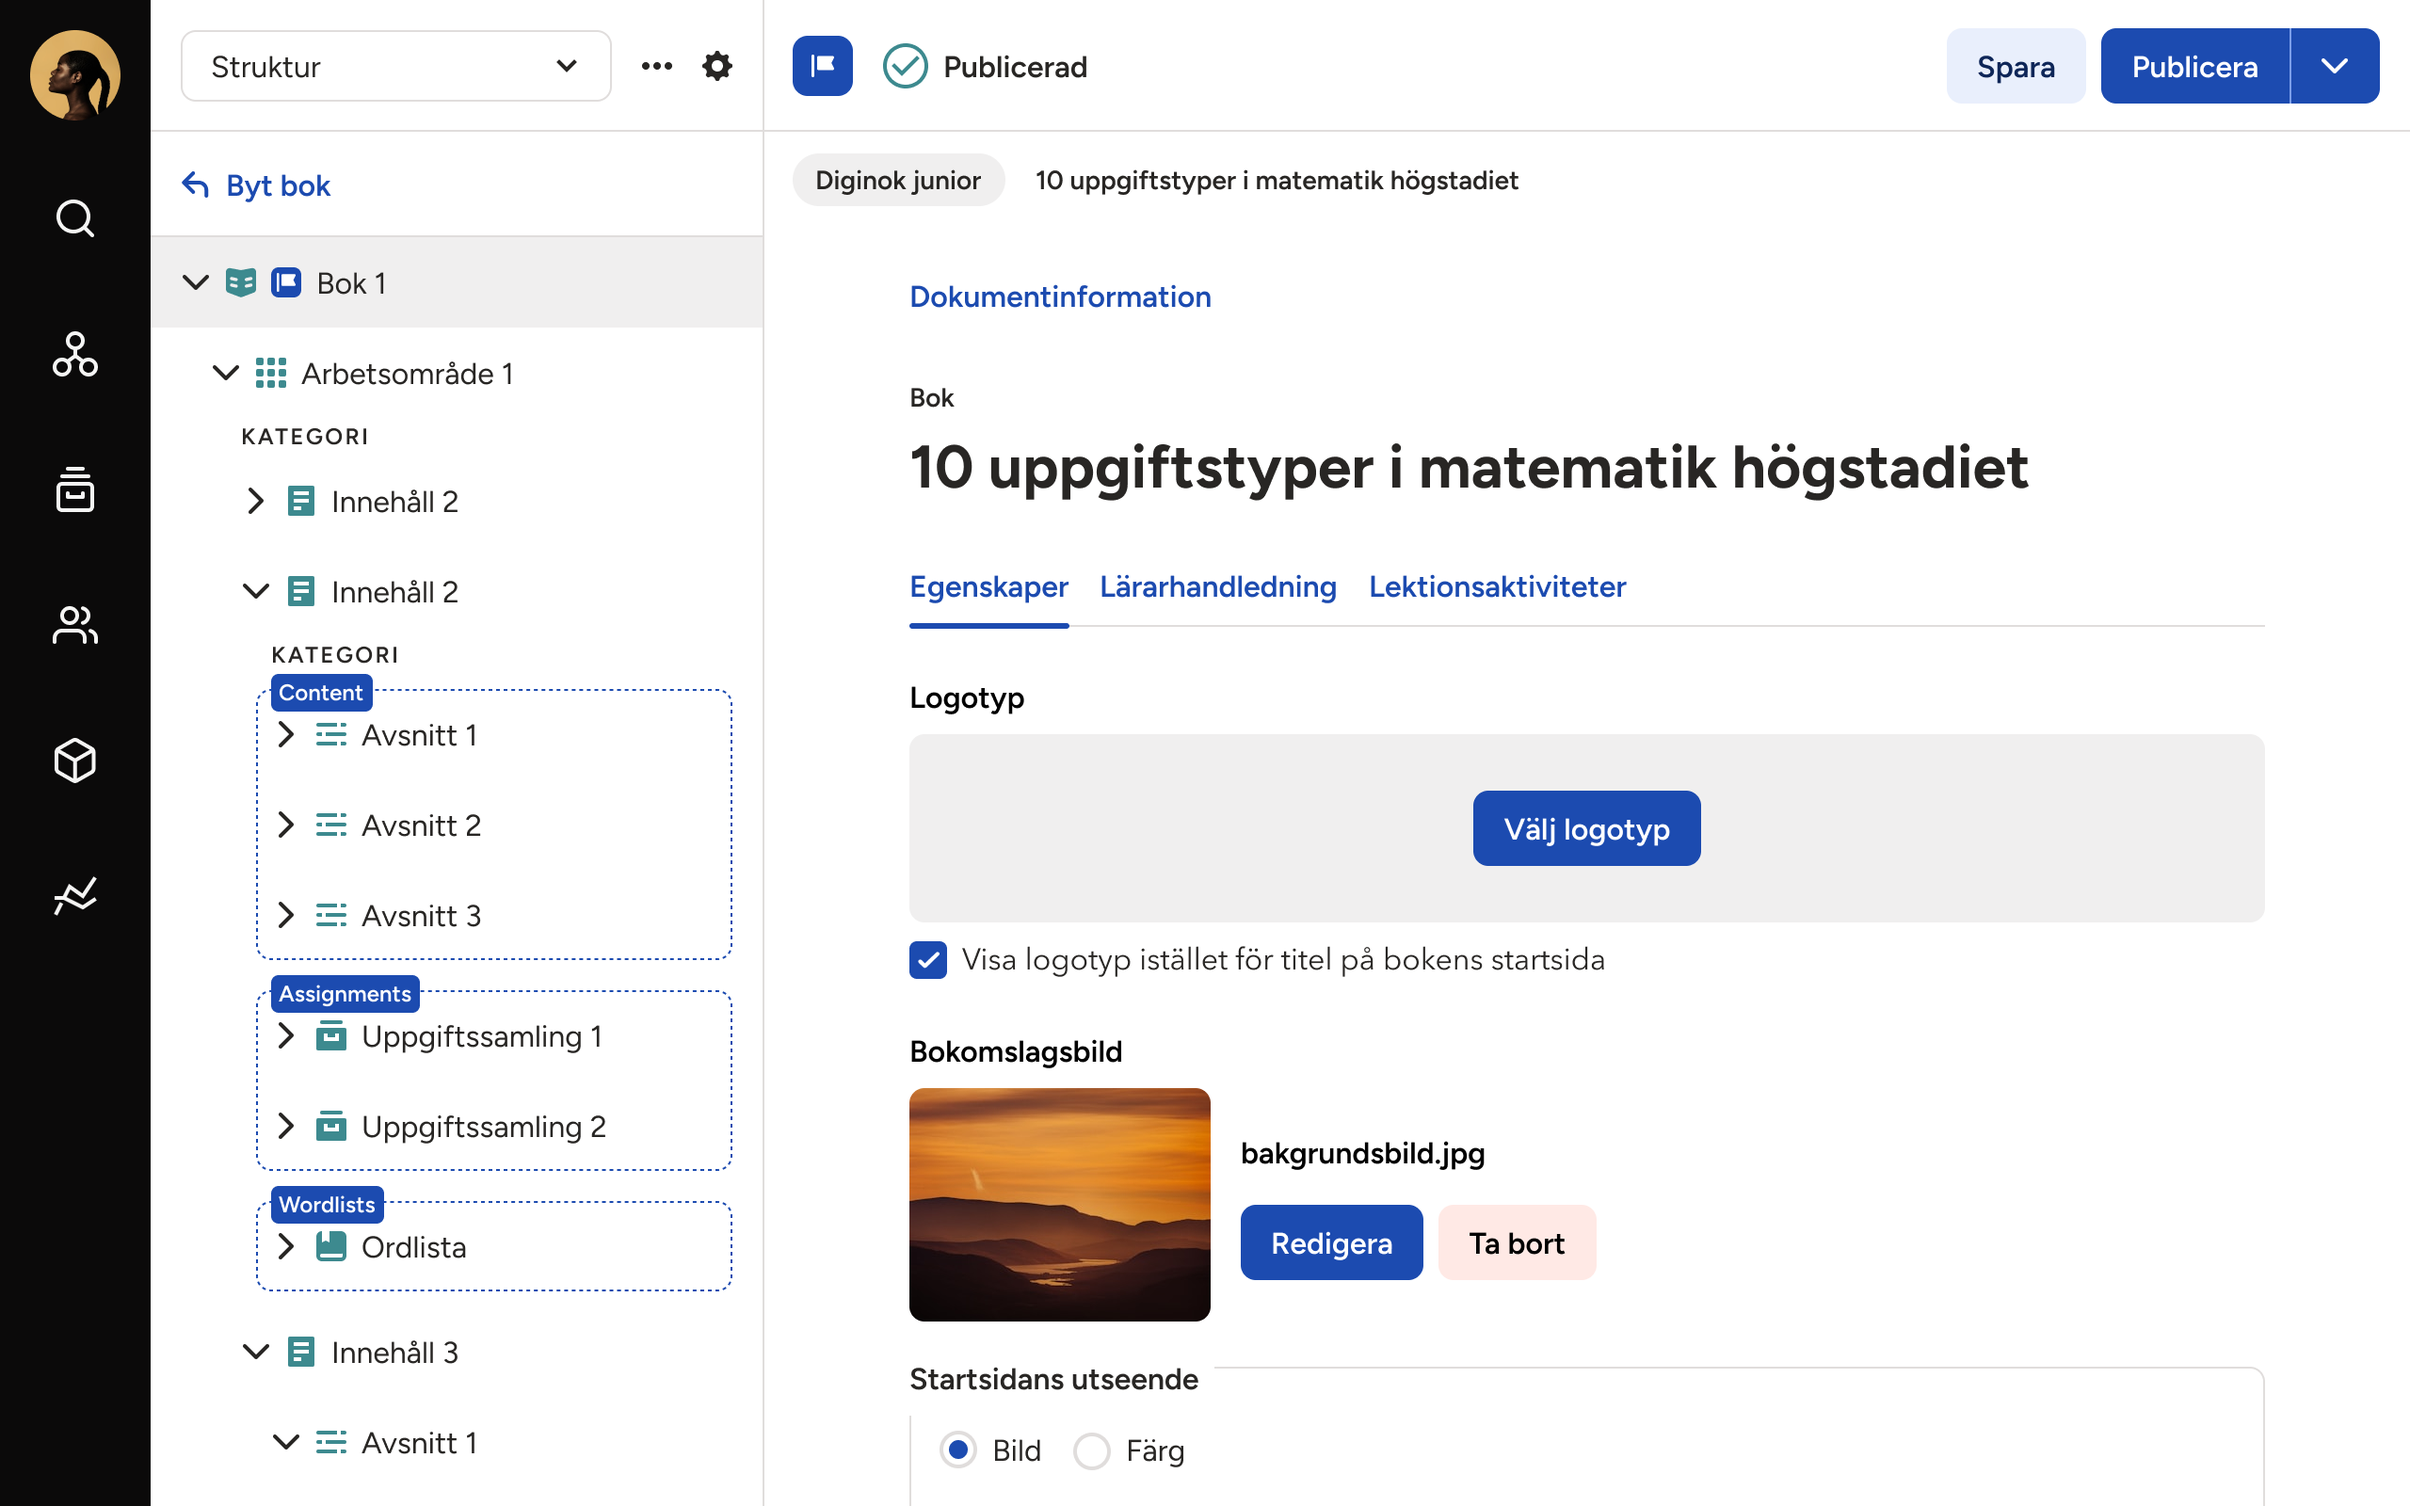
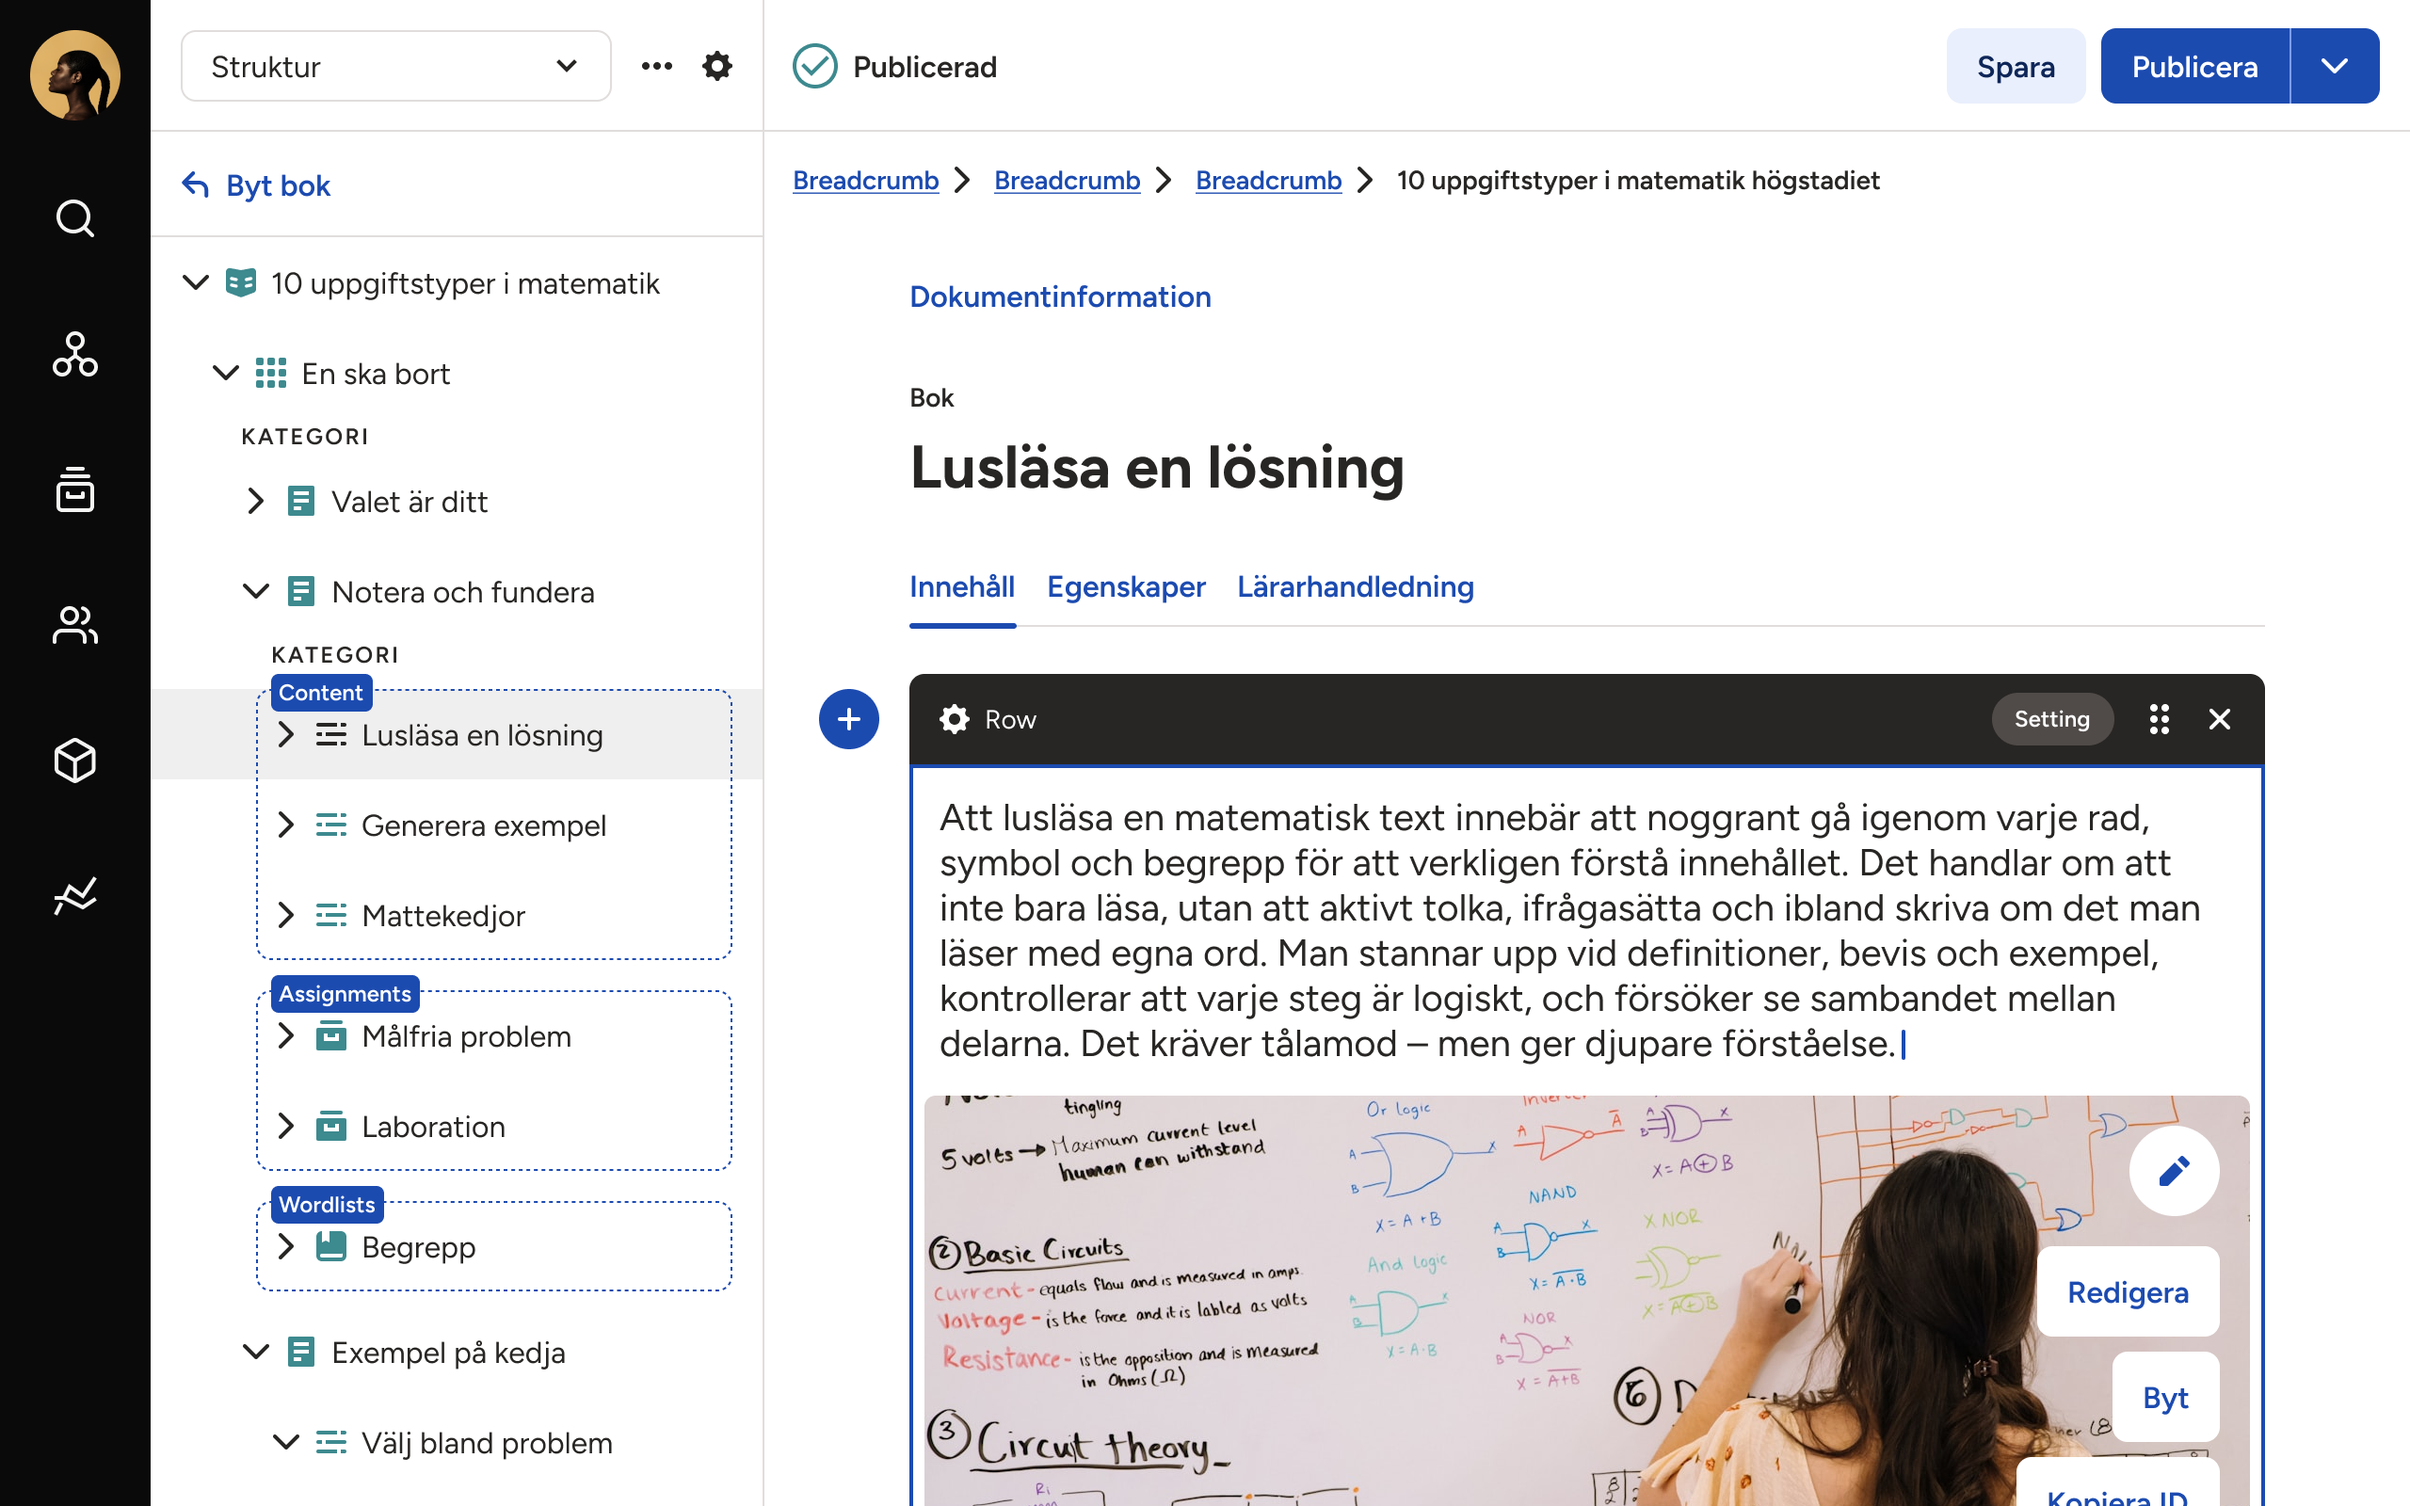
Cms

diff --git a/index.html b/index.html
@@ -4,78 +4,80 @@ layout: default
 
 <h1 class="mt-8 mb-8 text-2xl lead">Designer med ett öga för både form, funktion... och kod</h1>
 
-<div class="project-list">
-
-  <div class="case-card case1 mb-2 bg-case-purple text-case-purple rounded-lg">
-    <div class="case-card-image">
-      <img src="{{ '/assets/images/designsystem.png' | relative_url }}" alt="Nok kit designsystem" class="case-image">
-    </div>
-    <div class="case-card-content">
-      <h2 class="case-title text-xl mb-1">NOK kit</h2>
-      <p class="text-base mb-3">Enhetligt designsystem i Natur & Kulturs digitala tjänster.</p>
-      <a href="{{ '/case/nokkit' | relative_url }}" class="text-base link">Spana in</a>
-    </div>
+<section class="case-card case1 mb-2 bg-case-purple text-case-purple rounded-lg">
+  <div class="case-card-image">
+    <img src="{{ '/assets/images/designsystem.png' | relative_url }}" alt="Nok kit designsystem" class="case-image">
   </div>
-
-  <div class="case-card case2 mb-2 bg-case-blue text-case-blue rounded-lg">
-    <div class="case-card-image">
-      <img src="{{ '/assets/images/lek.png' | relative_url }}" alt="Nok kit designsystem">
-    </div>
-    <div class="case-card-content">
-      <h2 class="text-xl mb-1">Lektionsaktiviteter</h2>
-      <p class="text-base mb-3">Ett roligt, lekfullt och motiverande koncept i klassrummet med återkoppling.</p>
-      <a href="{{ '/case/lek' | relative_url }}" class="text-base link text-case-blue">Spana in</a>
-    </div>
+  <div class="case-card-content">
+    <h2 class="case-title text-xl mb-1">NOK kit</h2>
+    <p class="text-base mb-4">Enhetligt designsystem i Natur & Kulturs digitala tjänster.</p>
+    <a href="{{ '/case/nokkit' | relative_url }}" class="text-base link">Spana in</a>
   </div>
+</section>
 
-  <div class="case-card mb-2 bg-case-teal text-case-teal rounded-lg">
-    <div class="case-card-image">
-      <img src="{{ '/assets/images/junior.png' | relative_url }}" alt="Nok kit designsystem">
-    </div>
-    <div class="case-card-content">
-      <h2 class="text-xl mb-1">Junior</h2>
-      <p class="case3 text-base">Digitalt lärande för en yngre målgrupp.</p>
-    </div>
+<section class="case-card case2 mb-2 bg-case-blue text-case-blue rounded-lg">
+  <div class="case-card-image">
+    <img src="{{ '/assets/images/lek.png' | relative_url }}" alt="Nok kit designsystem">
   </div>
-
-  <div class="case-card mb-2 bg-case-orange text-case-orange rounded-lg">
-    <div class="case-card-image">
-      <img src="{{ '/assets/images/aichat.png' | relative_url }}" alt="Nok kit designsystem">
-    </div>
-    <div class="case-card-content">
-      <h2 class="text-xl mb-1">AI-chat för elever</h2>
-      <p class="case4 text-base">En studybuddy som hjälper elever att förstå och diskutera begrepp.</p>
-    </div>
+  <div class="case-card-content">
+    <h2 class="text-xl mb-1">Lektionsaktiviteter</h2>
+    <p class="text-base mb-4">Ett roligt, lekfullt och motiverande koncept i klassrummet med återkoppling.</p>
+    <!-- <a href="{{ '/case/lek' | relative_url }}" class="text-base link text-case-blue">Spana in</a> -->
+    <p class="text-gray-500 italic">Kommer snart</p>
   </div>
+</section>
 
-  <div class="case-card mb-2 bg-case-yellow text-case-yellow rounded-lg">
-    <div class="case-card-image">
-      <img src="{{ '/assets/images/matte-guidance.png' | relative_url }}" alt="Nok kit designsystem">
-    </div>
-    <div class="case-card-content">
-      <h2 class="text-xl mb-1">Digitalt matteverktyg</h2>
-      <p class="case5 text-base">Digitalt matteverktyg med spelifiering och återkoppling.</p>
-    </div>
+<section class="case-card mb-2 bg-case-teal text-case-teal rounded-lg">
+  <div class="case-card-image">
+    <img src="{{ '/assets/images/junior.png' | relative_url }}" alt="Exempel från Junior-plattformen med vänligt gränssnitt för yngre elever och digitalt lärande">
   </div>
-
-  <div class="case-card mb-2 bg-case-pink text-case-pink rounded-lg">
-    <div class="case-card-image">
-      <img src="{{ '/assets/images/diginok-chapter.png' | relative_url }}" alt="Nok kit designsystem">
-    </div>
-    <div class="case-card-content">
-      <h2 class="text-xl mb-1">Sveriges första heldigitala läromedel</h2>
-      <p class="case6 text-base">Från Digilär till Natur & Kulturs innehållsplattform.</p>
-    </div>
+  <div class="case-card-content">
+    <h2 class="text-xl mb-1">Junior</h2>
+    <p class="case3 text-base mb-4">Digitalt lärande för en yngre målgrupp.</p>
+    <p class="text-gray-500 italic">Kommer snart</p>
   </div>
+</section>
 
-  <div class="case-card mb-2 bg-case-green text-case-green rounded-lg">
-    <div class="case-card-image">
-      <img src="{{ '/assets/images/cms.png' | relative_url }}" alt="CMS">
-    </div>
-    <div class="case-card-content">
-      <h2 class="text-xl mb-1">CMS</h2>
-      <p class="case7 text-base">Ett gemensamt headless CMS för Natur & Kulturs digitala tjänster.</p>
-    </div>
+<section class="case-card mb-2 bg-case-orange text-case-orange rounded-lg">
+  <div class="case-card-image">
+    <img src="{{ '/assets/images/aichat.png' | relative_url }}" alt="NoGränssnitt för AI-chatbot där elever kan diskutera och få hjälp med skolbegrepp">
   </div>
+  <div class="case-card-content">
+    <h2 class="text-xl mb-1">AI-chat för elever</h2>
+    <p class="case4 text-base mb-4">En studybuddy som hjälper elever att förstå och diskutera begrepp.</p>
+    <p class="text-gray-500 italic">Kommer snart</p>
+  </div>
+</section>
 
-</div>
+<section class="case-card mb-2 bg-case-yellow text-case-yellow rounded-lg">
+  <div class="case-card-image">
+    <img src="{{ '/assets/images/matte-guidance.png' | relative_url }}" alt="Visar det digitala matteverktyget med spelifierade övningar och återkoppling">
+  </div>
+  <div class="case-card-content">
+    <h2 class="text-xl mb-1">Digitalt matteverktyg</h2>
+    <p class="case5 text-base mb-4">Digitalt matteverktyg med spelifiering och återkoppling.</p>
+    <p class="text-gray-500 italic">Kommer snart</p>
+  </div>
+</section>
+
+<section class="case-card mb-2 bg-case-pink text-case-pink rounded-lg">
+  <div class="case-card-image">
+    <img src="{{ '/assets/images/diginok-chapter.png' | relative_url }}" alt="Exempel på digitalt läromedel i Natur & Kulturs innehållsplattform">
+  </div>
+  <div class="case-card-content">
+    <h2 class="text-xl mb-1">Sveriges första heldigitala läromedel</h2>
+    <p class="case6 text-base mb-4">Från Digilär till Natur & Kulturs innehållsplattform.</p>
+    <p class="text-gray-500 italic">Kommer snart</p>
+  </div>
+</section>
+
+<section class="case-card mb-2 bg-case-green text-case-green rounded-lg">
+  <div class="case-card-image">
+    <img src="{{ '/assets/images/cms.png' | relative_url }}" alt="Gränssnitt för CMS som visar materialbanken och redigeringsverktyg">
+  </div>
+  <div class="case-card-content">
+    <h2 class="text-xl mb-1">CMS</h2>
+    <p class="case7 text-base mb-4">Ett headless CMS och materialbank för Natur & Kulturs digitala tjänster.</p>
+    <p class="text-gray-500 italic">Kommer snart</p>
+  </div>
+</section>

diff --git a/assets/css/style.css b/assets/css/style.css
@@ -119,10 +119,6 @@
 
 @layer components {
 
-  .case-image {
-    view-transition-name: case-image;
-  }
-
   .case1 {
     view-transition-name: case1;
   }
@@ -146,6 +142,9 @@
     display: grid;
     grid-template-columns: 1fr 1fr 1fr 1fr;
     grid-template-rows: 1fr 1fr 1fr 1fr;
+    animation: fade-out linear;
+    animation-timeline: view();
+    animation-range: exit 50px;
 
     transition: opacity 0.3s ease;
 
@@ -170,9 +169,6 @@
     }
   }
 
-  .project-list:has(.case-card:hover) .case-card:not(:hover) {
-    opacity: 0.5;
-  }
 
   .case-card-content {
     grid-column: 1 / 5;
@@ -195,6 +191,7 @@
       grid-row: 1 / 5;
       transform: translateY(-20px);
       align-content: flex-end;
+      max-width: 580px;
     }
   }
 
@@ -212,7 +209,7 @@
     align-self: end;
 
     @media (min-width: 768px) {
-      grid-column: 2 / 6;
+      grid-column: 2 / 5;
       grid-row: 1 / 5;
       align-items: flex-end;
     }
@@ -259,5 +256,27 @@
       opacity: 1;
       transform: translateY(0);
     }
+  }
+}
+
+@keyframes fade-in {
+  from {
+    opacity: 0;
+    
+  }
+  to {
+    opacity: 1;
+    scale: 1;
+  }
+}
+
+@keyframes fade-out {
+  from {
+    opacity: 1;
+    scale: 1;
+  }
+  to {
+    opacity: 0;
+    scale: 0.9;
   }
 }

diff --git a/case/nokkit.html b/case/nokkit.html
@@ -18,6 +18,7 @@ transition: nokkit-card
   <p class="mb-4">Primärt för preferens och tillgänglighet. Togs i första hand fram i samarbete med PTS</p>
   <img src="{{ '/assets/images/designsystem-darklight.png' | relative_url }}" alt="Nok kit designsystem" class="rounded-lg mb-8">
 
-  <h2 class="mb-4">Olika lägen</h2>
+  <h2 class="mb-2">Olika lägen</h2>
+  <p class="mb-4">Beroende på kontext kan designsystemet användas i olika lägen. Det vi tog fram var ett default läge men också ett vi kallar för spacious i de lägen gränssnittet behöver mer luft och större klickytor.</p>
   <img src="{{ '/assets/images/designsystem-modes.png' | relative_url }}" alt="Nok kit designsystem" class="rounded-lg mb-4">
 </article>

diff --git a/_includes/head.html b/_includes/head.html
@@ -8,7 +8,8 @@
 <link rel="preconnect" href="https://fonts.googleapis.com">
 <link rel="preconnect" href="https://fonts.gstatic.com" crossorigin>
 <link href="https://fonts.googleapis.com/css2?family=Bitter:ital,wght@0,100..900;1,100..900&family=Onest:wght@100..900&display=swap" rel="stylesheet">
-
+<link rel="icon" type="image/png" sizes="32x32" href="{{ '/assets/favicon/favicon-32x32.png' | relative_url }}">
+<link rel="icon" type="image/png" sizes="16x16" href="{{ '/assets/favicon/favicon-16x16.png' | relative_url }}">
 <script type="speculationrules">
   {
     "prerender": [{

diff --git a/assets/css/tokens.css b/assets/css/tokens.css
@@ -283,6 +283,9 @@
   .justify-between { justify-content: space-between; }
   .justify-around { justify-content: space-around; }
 
+  .italic { font-style: italic; }
+  .bold { font-weight: bold; }
+
   /* Grid */
   .grid { display: grid; }
   .grid-cols-1 { grid-template-columns: 1fr; }

diff --git a/assets/css/reset.css b/assets/css/reset.css
@@ -16,6 +16,12 @@
     }
   }
 
+  :focus {
+    outline: 3px solid black;
+    outline-offset: 4px;
+    border-radius: 0.25rem;
+  }
+
   a {
     color: inherit;
   }
